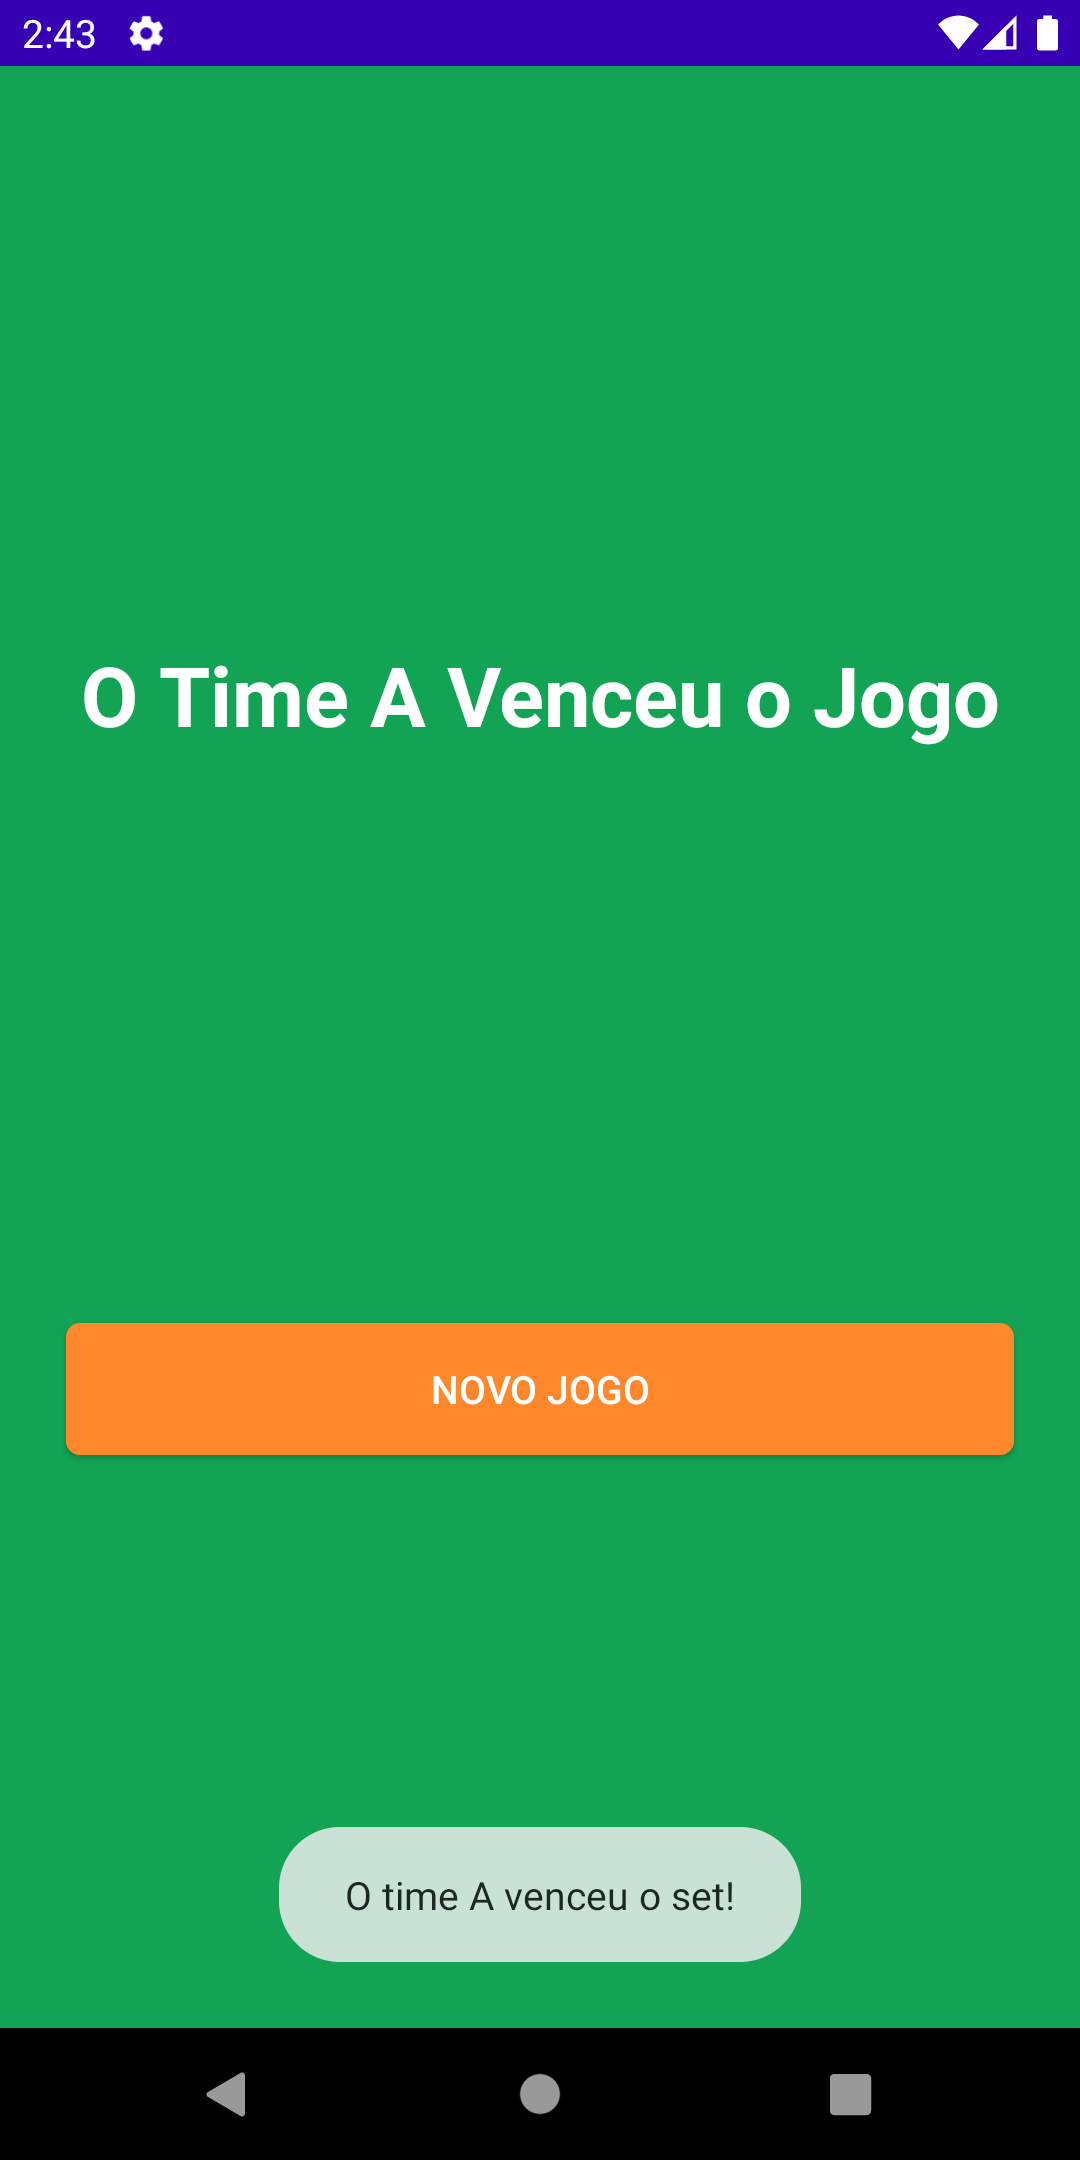
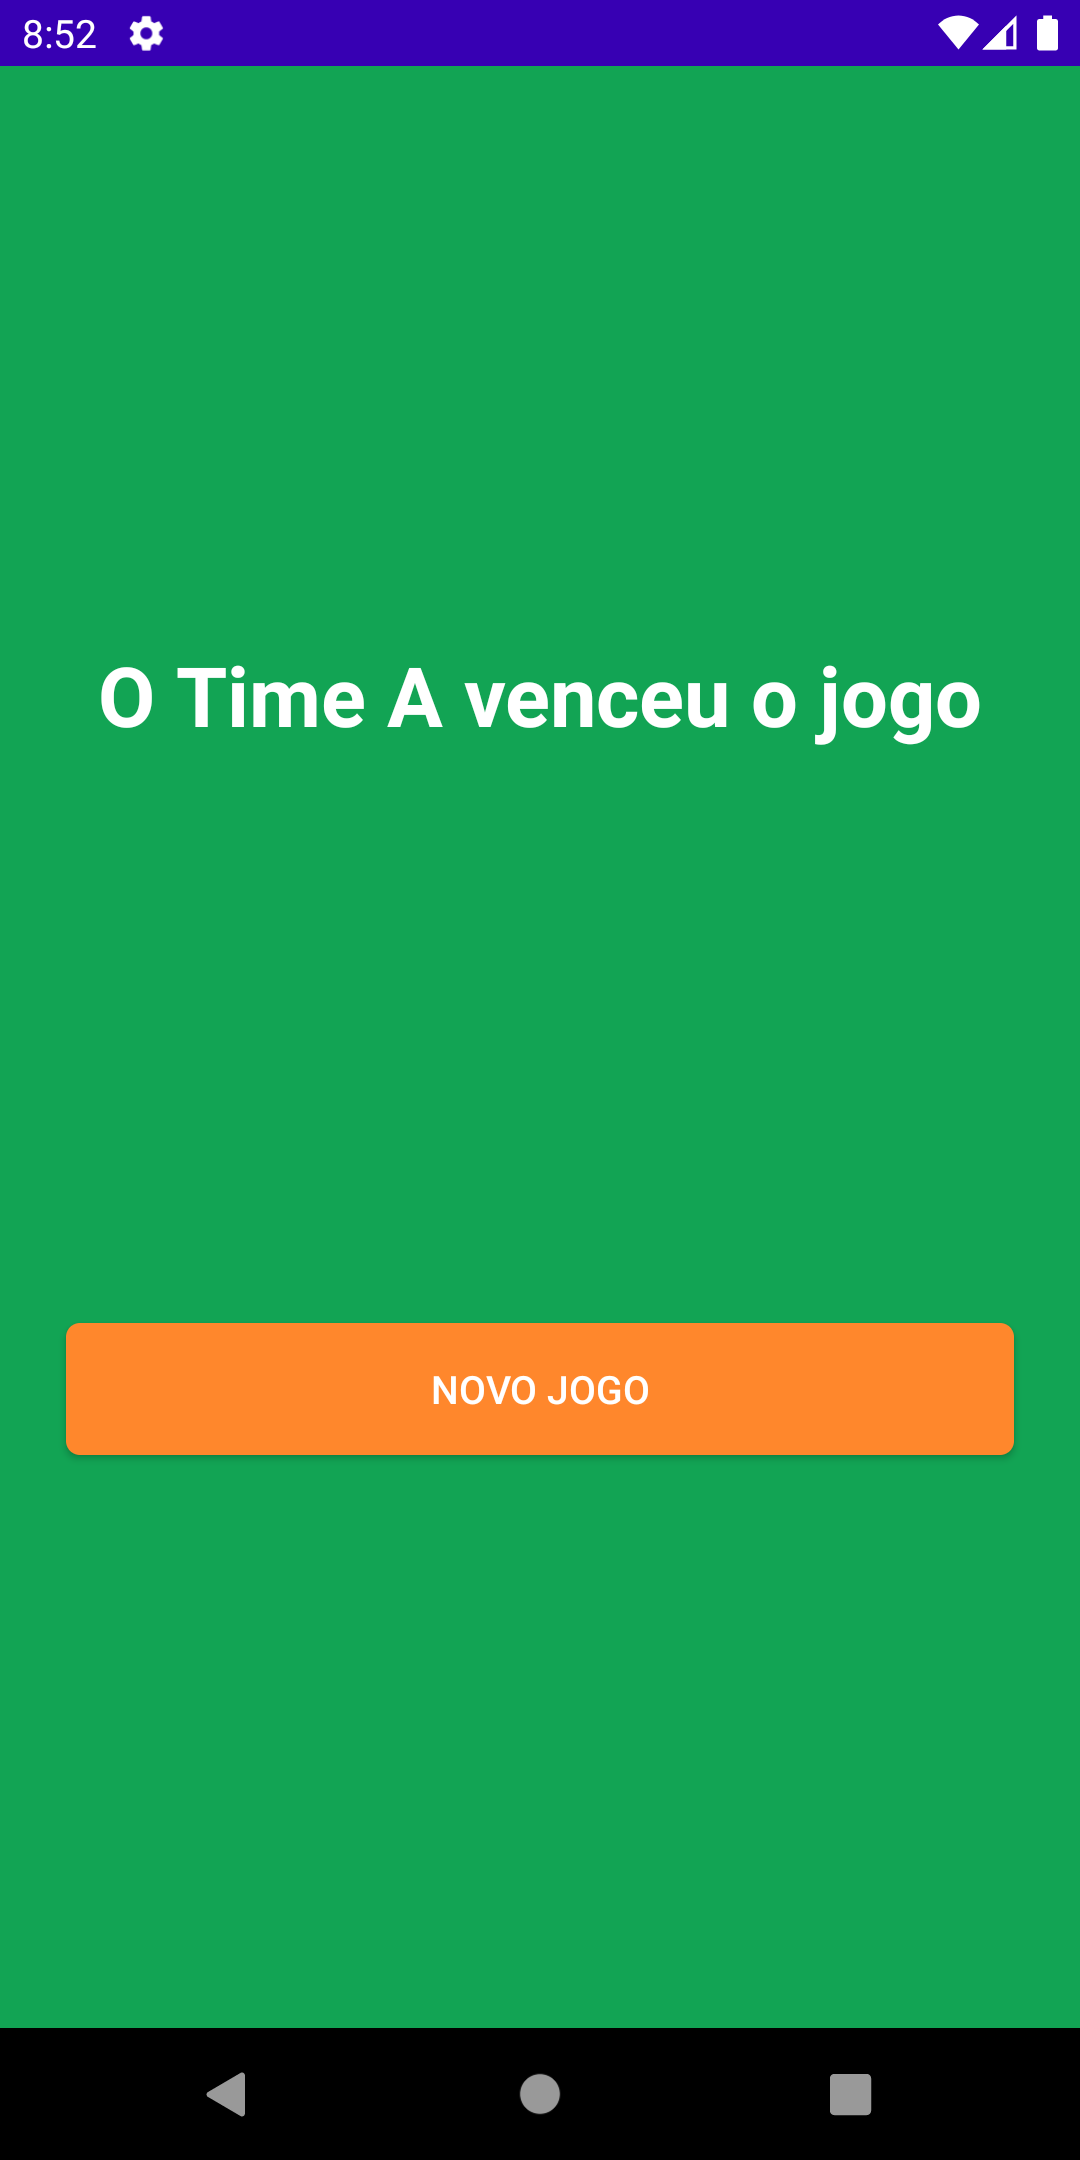
chore: readme images updated

Changed region(s): [[0.2444, 0.8375, 0.7639, 0.9306], [0.0611, 0.3102, 0.9167, 0.3412], [0.0306, 0.0, 0.0917, 0.031]]

diff --git a/app/src/main/java/com/mariofronza/setmanager/activities/WinnerActivity.java b/app/src/main/java/com/mariofronza/setmanager/activities/WinnerActivity.java
@@ -27,7 +27,7 @@ public class WinnerActivity extends AppCompatActivity {
         tvWinnerName = findViewById(R.id.tvWinnerName);
         btnRestartGame = findViewById(R.id.btnRestartGame);
 
-        tvWinnerName.setText("O Time " + winnerName + " Venceu o Jogo");
+        tvWinnerName.setText("O Time " + winnerName + " venceu o jogo");
 
         btnRestartGame.setOnClickListener(new View.OnClickListener() {
             @Override
